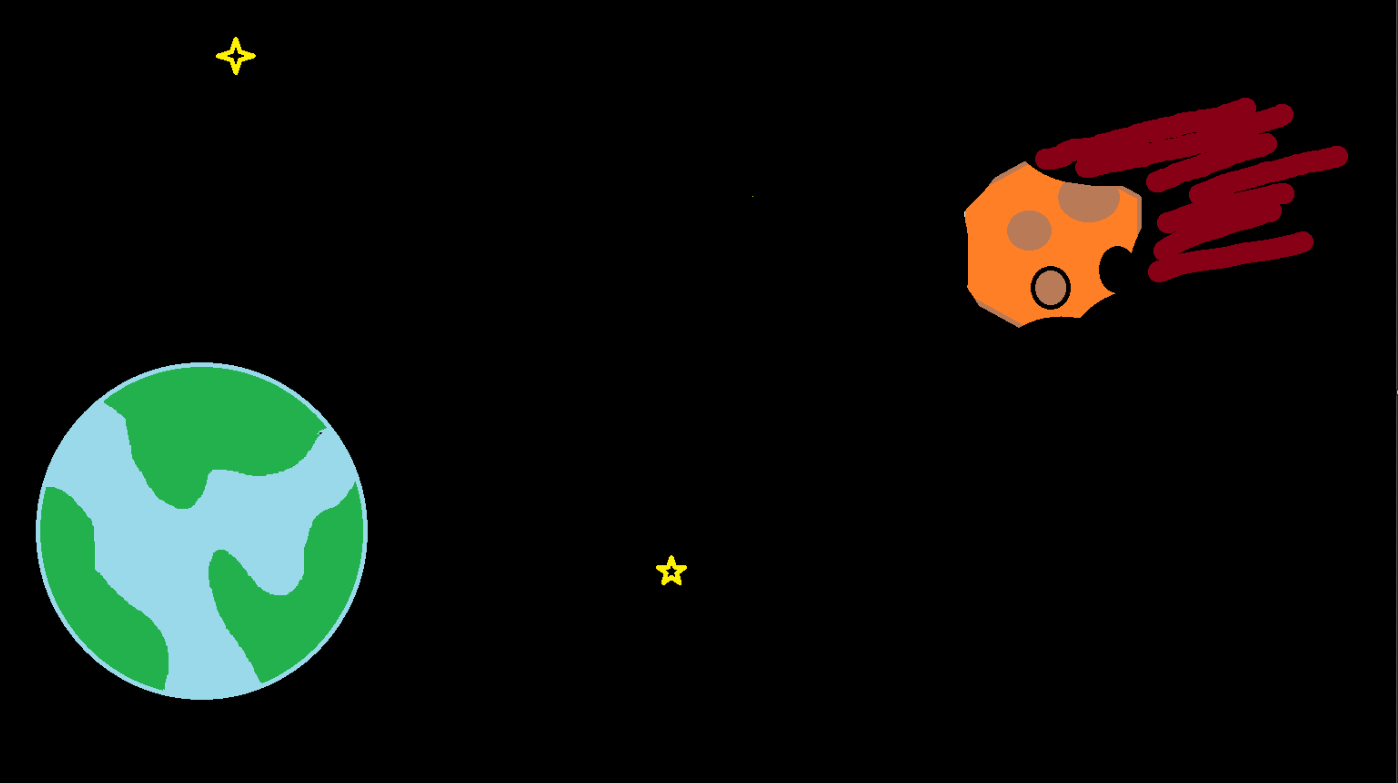
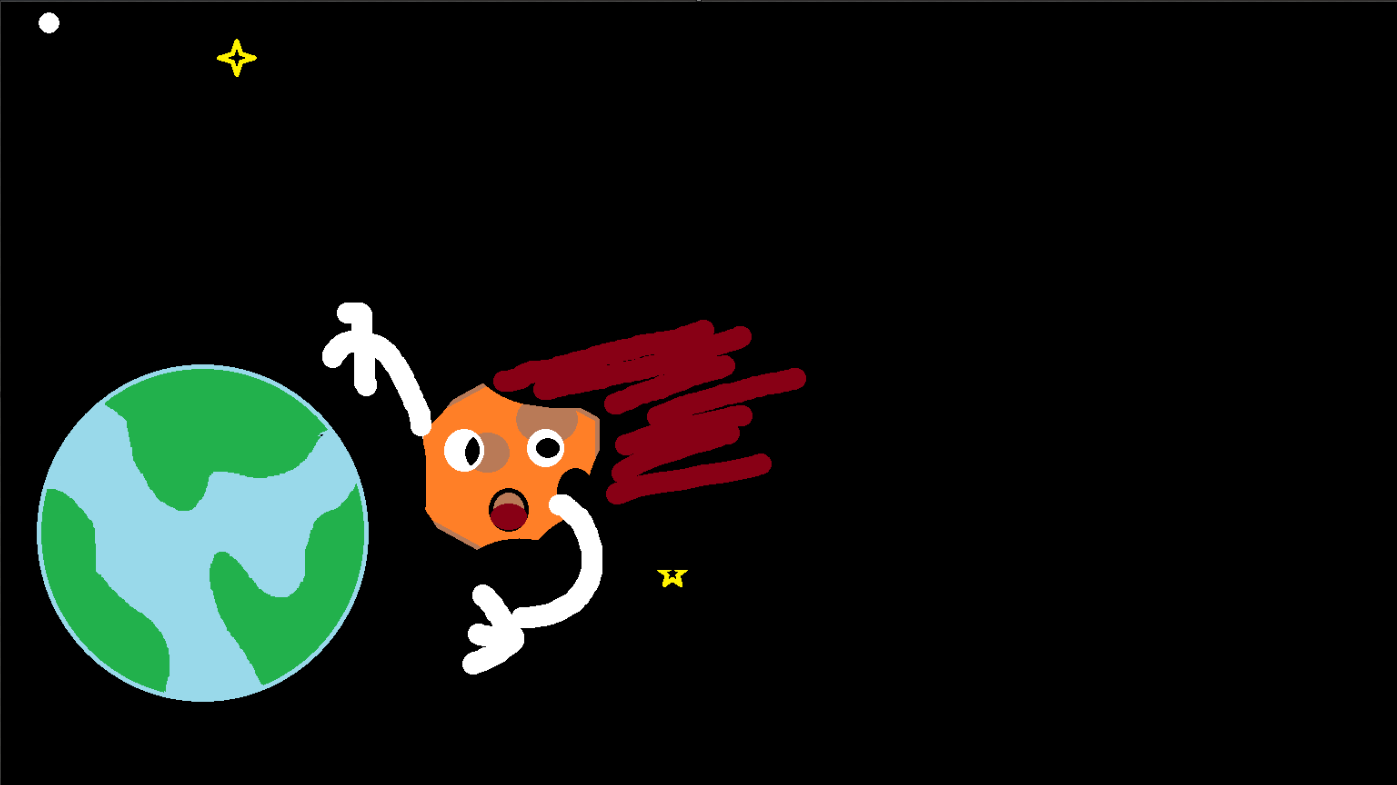
modifies name of images to reflect remaining lives. Creates a test.py file to separately implement the code to update tkinter image based on remaining lives

diff --git a/test.py b/test.py
@@ -1,0 +1,42 @@
+from tkinter import *
+
+root = Tk()
+root.title('Hangman')
+root.minsize(width=2000, height=1000)
+
+lives = 5
+
+canvas = Canvas(width=975, height=605)
+
+hangman_stages = [
+    PhotoImage(file="images/hangman0.png"),
+    PhotoImage(file="images/hangman1.png"),
+    PhotoImage(file="images/hangman2.png"),
+    PhotoImage(file="images/hangman3.png"),
+    PhotoImage(file="images/hangman4.png"),
+    PhotoImage(file="images/hangman5.png"),
+]
+
+conditional_images = [
+    PhotoImage(file="images/hangman_lose.png"),
+    PhotoImage(file="images/hangman_win.png"),
+]
+
+def decrease_life():
+    global lives, hangman_image
+    lives -= 1
+    if lives >= 0:
+        canvas.itemconfig(hangman_image, image=hangman_stages[lives])
+        print("Lives:", lives)
+
+
+button = Button(text = 'Decrease Life', command = decrease_life)    
+button.pack()
+
+hangman_image = canvas.create_image(500, 350, image=hangman_stages[lives])
+canvas.pack()
+
+
+
+
+root.mainloop()
